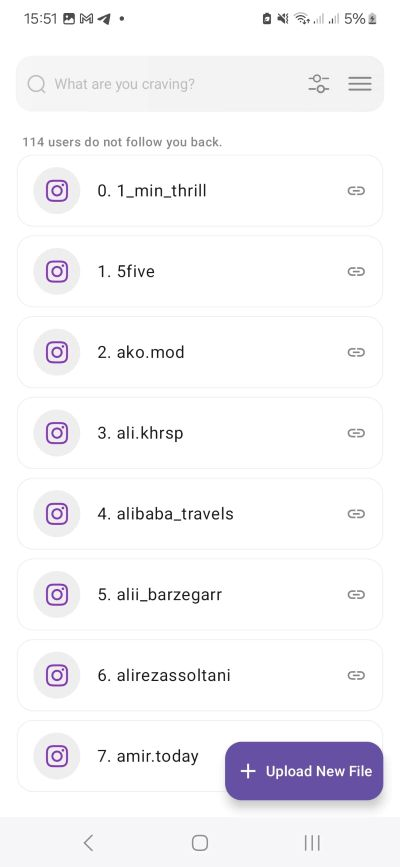
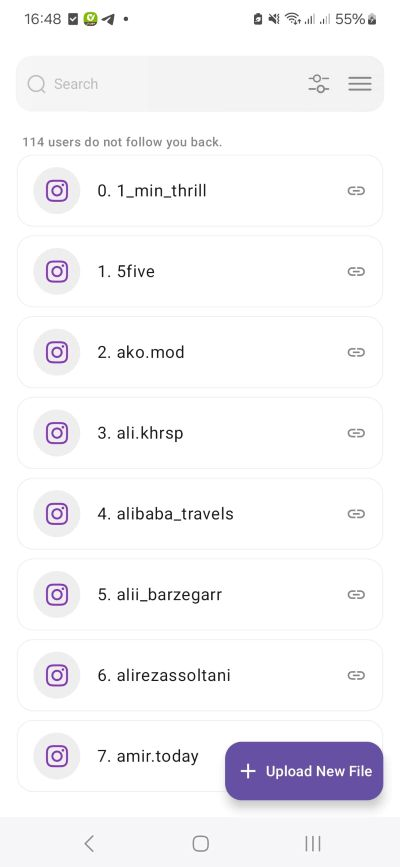
chore(ui): update search title

diff --git a/app/src/main/java/com/sepehrpg/scaninsta/designsystem/component/SearchBar.kt b/app/src/main/java/com/sepehrpg/scaninsta/designsystem/component/SearchBar.kt
@@ -81,7 +81,7 @@ fun AppCustomSearchBarBasicTextField(
     clearTextField: () -> Unit = {},
     placeholder: @Composable (() -> Unit)? = {
         Text(
-            text = "What are you craving?",
+            text = "Search",
             style = TextStyle(fontSize = 14.sp, color = Color(0xFFBDBDBD), textAlign = TextAlign.Center)
         )
     },
